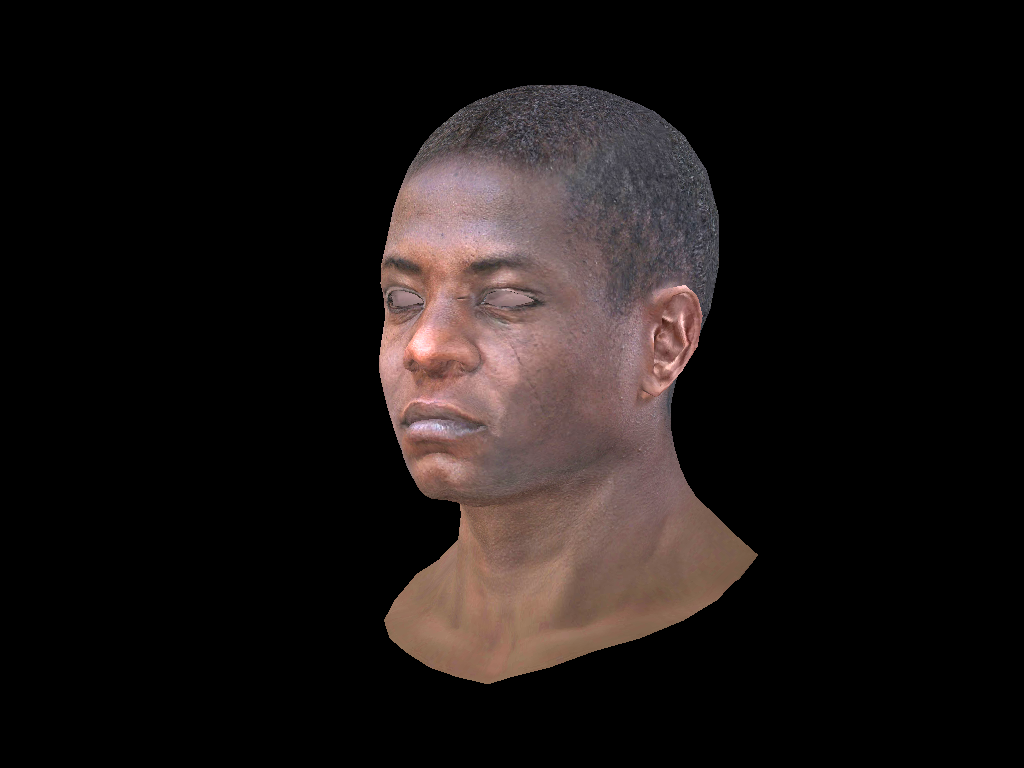
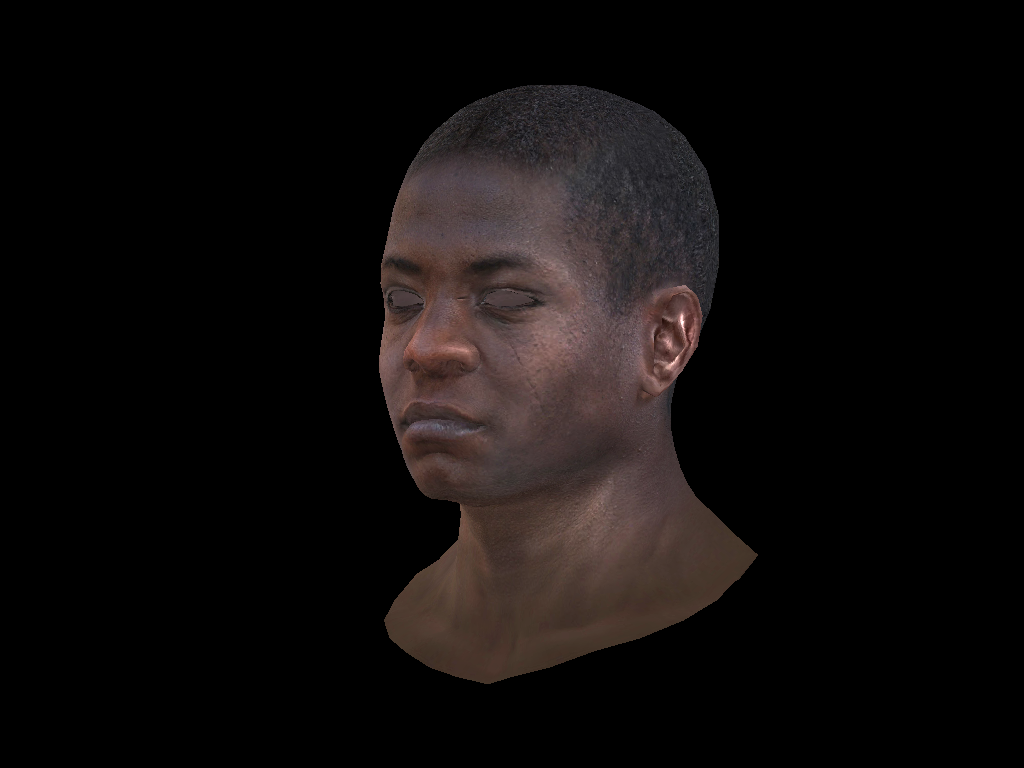
fix camera

Changed region(s): [[0.3438, 0.0938, 0.75, 0.9062]]

diff --git a/components/camera.cc b/components/camera.cc
@@ -48,13 +48,6 @@ Camera::Camera(const glm::vec3& look_from, const glm::vec3& look_at, const glm::
     temp[2][0] = -look_at.x; temp[2][1] = -look_at.y; temp[2][2] = -look_at.z;
     _rtv = _rtv * temp;
     _rtv = glm::transpose(_rtv);
-
-    _rtp = glm::mat4 {0.0f};
-    _rtp[0][0] = _width / (2 * _focus);
-    _rtp[1][1] = _height / (2 * _focus);
-    _rtp[3][2] = -1;
-    _rtp[2][3] = -1 / (2 * _focus);
-    _rtp[3][3] = 1 / (2 * _focus);
 }
 
 Camera::~Camera() = default;

diff --git a/components/camera.h b/components/camera.h
@@ -25,7 +25,7 @@ public:
     glm::vec4 transform(const glm::vec4& vec) override;
 
     inline glm::vec4 transformNormal(const glm::vec4& n) const {
-        return _rtp * _rtv * n;
+        return _rtv * n;
     }
 
     void rasterize(core::rasterization::RasterizationRenderer* renderer, int pass) override {}
@@ -33,7 +33,6 @@ private:
     glm::mat4 _v;
     glm::mat4 _p;
     glm::mat4 _rtv;
-    glm::mat4 _rtp;
     float _focus;
     float _width;
     float _height;
